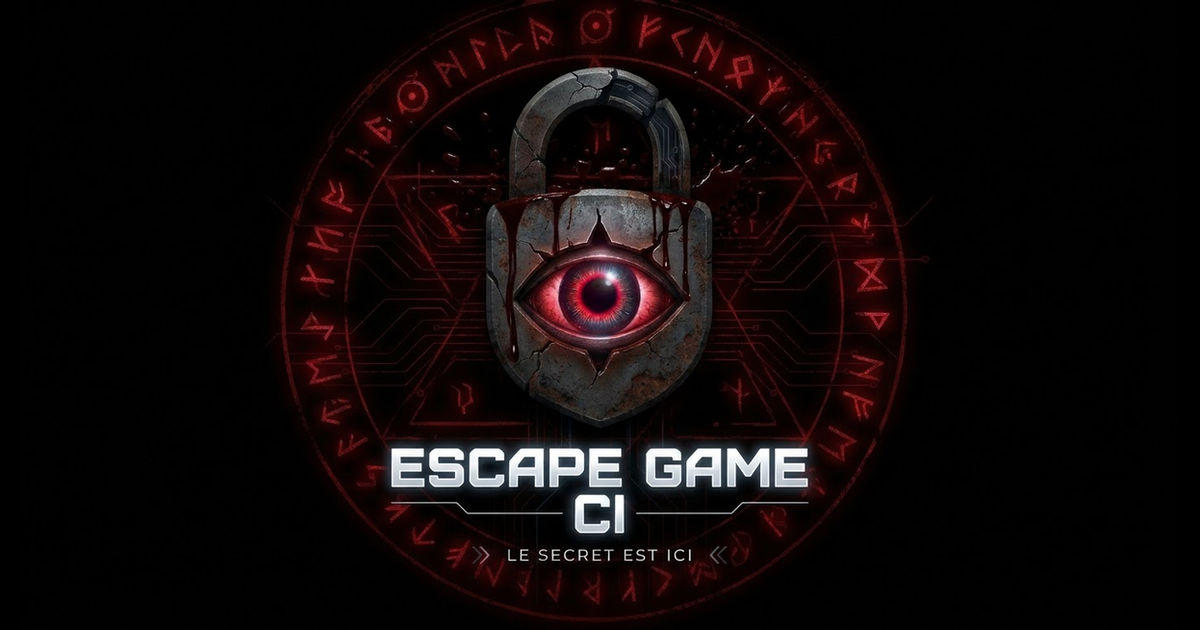
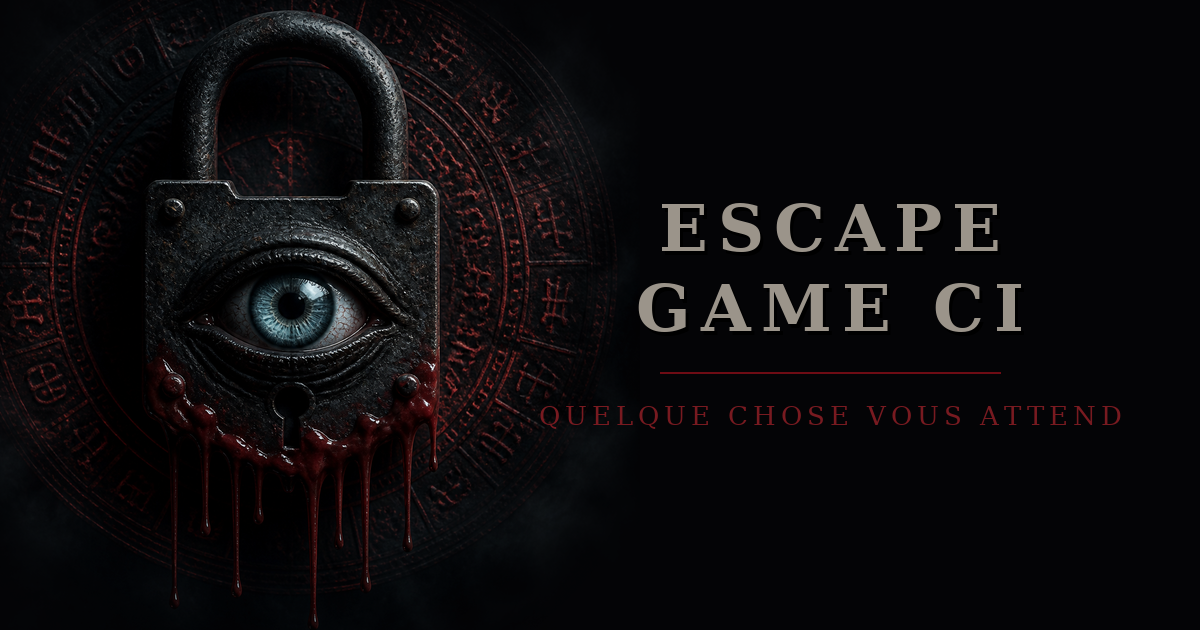
Aperçu du lien (Open Graph) : nouveau visuel
Nouvelle og-image 1200x630 (cadenas, œil, sceau + titre), cache-buster v=3
et texte alternatif mis à jour.

Claude-Session: https://claude.ai/code/session_01Mc8x1eZ4P7uE1ByvAybub9

diff --git a/app/layout.tsx b/app/layout.tsx
@@ -33,13 +33,13 @@ export const metadata: Metadata = {
     url: "/",
     title: "ESCAPE GAME CI · Énigmes en équipe",
     description: "Une plateforme d'escape game numérique : chaque équipe suit son parcours d'énigmes.",
-    images: [{ url: "/og-image.png?v=2", width: 1200, height: 630, alt: "ESCAPE GAME CI, le secret est ici" }],
+    images: [{ url: "/og-image.png?v=3", width: 1200, height: 630, alt: "ESCAPE GAME CI, quelque chose vous attend" }],
   },
   twitter: {
     card: "summary_large_image",
     title: "ESCAPE GAME CI · Énigmes en équipe",
     description: "Une plateforme d'escape game numérique : chaque équipe suit son parcours d'énigmes.",
-    images: ["/og-image.png?v=2"],
+    images: ["/og-image.png?v=3"],
   },
 };
 
